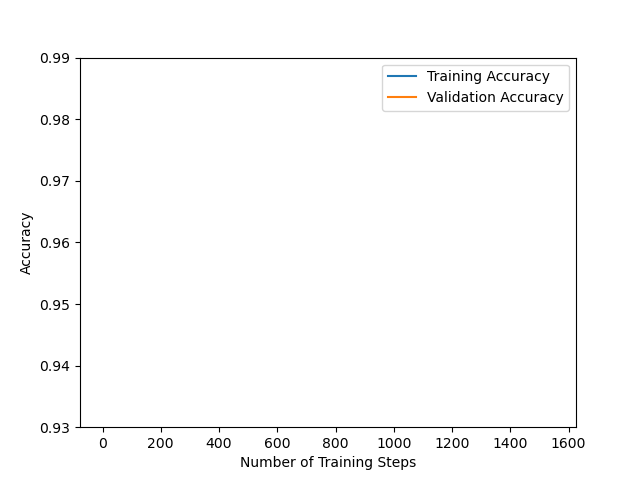
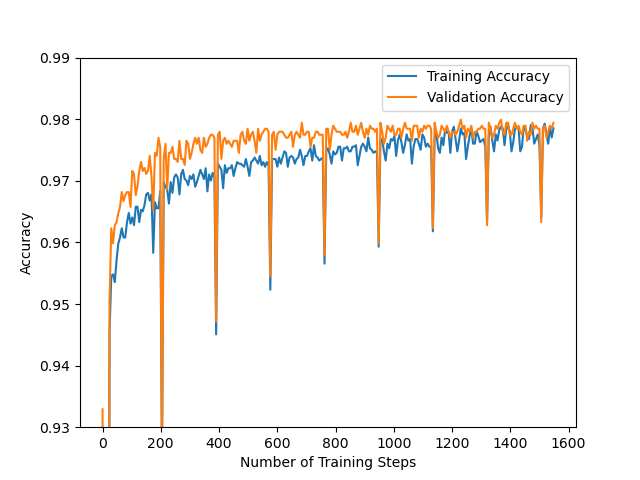
calculate accuracy (task2c)

Changed region(s): [[0.1562, 0.25, 0.875, 0.9062]]

diff --git a/assignment1/task2.py b/assignment1/task2.py
@@ -16,7 +16,19 @@ def calculate_accuracy(X: np.ndarray, targets: np.ndarray, model: BinaryModel) -
         Accuracy (float)
     """
     # TODO Implement this function (Task 2c)
-    accuracy = 0.0
+
+    Y_pred=model.forward(X)
+    #at this point th model returns predictions (0,1) but we need classifications to determin acc
+    #apply a treshold og 0,5. that is if y_pred>0,5 it is set to class 1 else class 0
+    Y_class = (Y_pred >= 0.5).astype(int)
+
+    #accuracy = correct predictions / total number of predictins
+    correct_classifications = np.sum(Y_class == targets)
+    total_classifications = len(Y_class)
+    accuracy = correct_classifications/total_classifications
+    comparison = np.column_stack((Y_class, targets))
+    
+        
     return accuracy
 
 
@@ -37,7 +49,8 @@ class LogisticTrainer(BaseTrainer):
         # TODO: Implement this function (task 2b)
         outputs = self.model.forward(X_batch)
         loss = cross_entropy_loss(Y_batch, outputs)
-
+        
+        # updates self.model.grad
         self.model.backward(X_batch, outputs, Y_batch)
         self.model.w -= self.learning_rate * self.model.grad
 

diff --git a/assignment1/task2a.py b/assignment1/task2a.py
@@ -16,14 +16,11 @@ def pre_process_images(X: np.ndarray):
     assert X.shape[1] == 784,\
         f"X.shape[1]: {X.shape[1]}, should be 784"
     # TODO implement this function (Task 2a)
-    print(X.shape)
    
     X = (X - 127.5) / 127.5
-    print(X[1])
     #bias trick
     bias_column = np.ones((X.shape[0], 1))
     X = np.concatenate((X, bias_column), axis=1)
-    print(X.shape)
 
     return X
 
